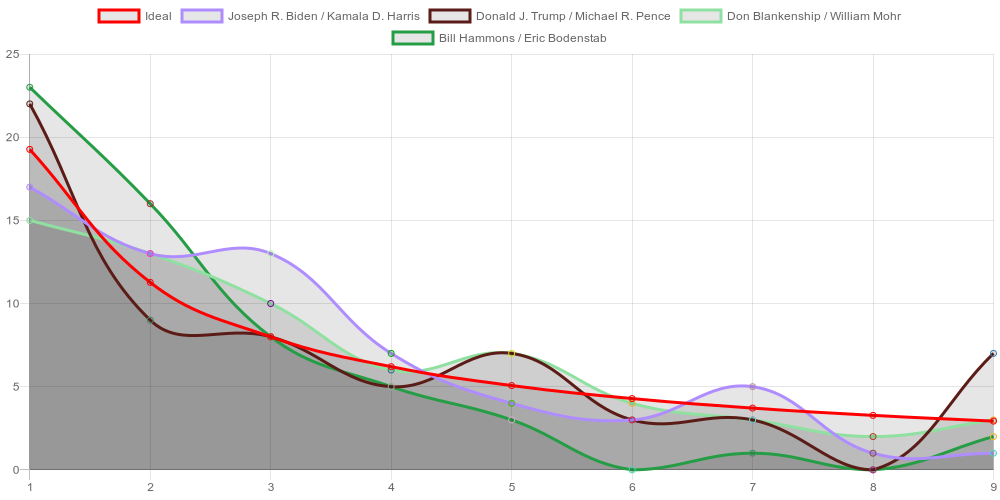
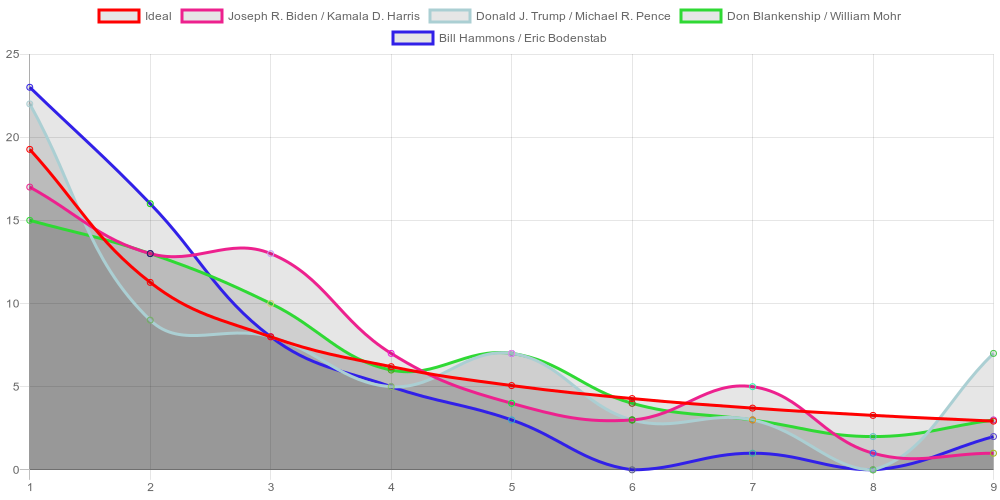
Minor improvements

diff --git a/index.js b/index.js
@@ -14,6 +14,13 @@ const converter_3 = require('./converters/converter_3.js');
 
 const configsForLocations = [
     {
+        jsonFilePath: './dump/milwaukee/vote-count/milwaukee.json',
+        fieldsToDelete: ['field1', 'field8'],
+        outputGraphPath: path.join(__dirname, 'dump', 'milwaukee', 'vote-count', 'milwaukee-graph.png')
+    },
+
+
+    {
         mapJson: {
             input: './dump/chicago/vote-count/chicago_converted.json',
             mappers: [
@@ -53,20 +60,15 @@ const configsForLocations = [
         },
         jsonFilePath: './dump/chicago/vote-count/chicago.json',
         fieldsToDelete: ['field1'],
+        limitCandidates: 3,
         outputGraphPath: path.join(__dirname, 'dump', 'chicago', 'vote-count', 'chicago-graph.png')
-    },
-
-
-    {
-        jsonFilePath: './dump/milwaukee/vote-count/milwaukee.json',
-        fieldsToDelete: ['field1', 'field8'],
-        outputGraphPath: path.join(__dirname, 'dump', 'milwaukee', 'vote-count', 'milwaukee-graph.png')
     },
 
 
     {
         jsonFilePath: './dump/nebraska/vote-count/nebraska.json',
         fieldsToDelete: ['County'],
+        limitCandidates: 2,
         outputGraphPath: path.join(__dirname, 'dump', 'nebraska', 'vote-count', 'nebraska-graph.png')
     },
 
@@ -187,11 +189,15 @@ const configsForLocations = [
             output: './dump/georgia/vote-count/georgia-provisional-votes.json'
         },
         jsonFilePath: './dump/georgia/vote-count/georgia-provisional-votes.json',
+        limitCandidates: 3,
         outputGraphPath: path.join(__dirname, 'dump', 'georgia', 'vote-count', 'georgia-provisional-votes-graph.png')
     }
 ];
 
+const base = 10;
+
 for (const configForLocation of configsForLocations) {
+    const limitCandidates = configForLocation.limitCandidates || Infinity;
     if (configForLocation.mapJson) {
         let inputJson = require(configForLocation.mapJson.input);
 
@@ -274,12 +280,14 @@ for (const configForLocation of configsForLocations) {
             contestants[contestant]++;
         }
     }
-    const contestantsArray = Object.keys(contestants);
+    let contestantsArray = Object.keys(contestants);
+    if (limitCandidates) {
+        contestantsArray = contestantsArray.slice(0, limitCandidates);
+    }
 
     console.log('\nContestants and the instances of their entries (their count should all be the same):');
     console.log(contestants);
 
-    const base = 10;
     const benfordDistribution = {
         '_0': 0,
     };
@@ -330,7 +338,7 @@ for (const configForLocation of configsForLocations) {
     const canvasRenderService = new CanvasRenderService(width, height, chartCallback);
 
     // https://github.com/davidbau/seedrandom
-    const seededRandom = new seedrandom('this-is-a-seed-string_1');
+    const seededRandom = new seedrandom('this-is-a-seed-string_1000');
 
     // https://stackoverflow.com/questions/23095637/how-do-you-get-random-rgb-in-javascript/23095818#23095818
     function random_rgba() {
